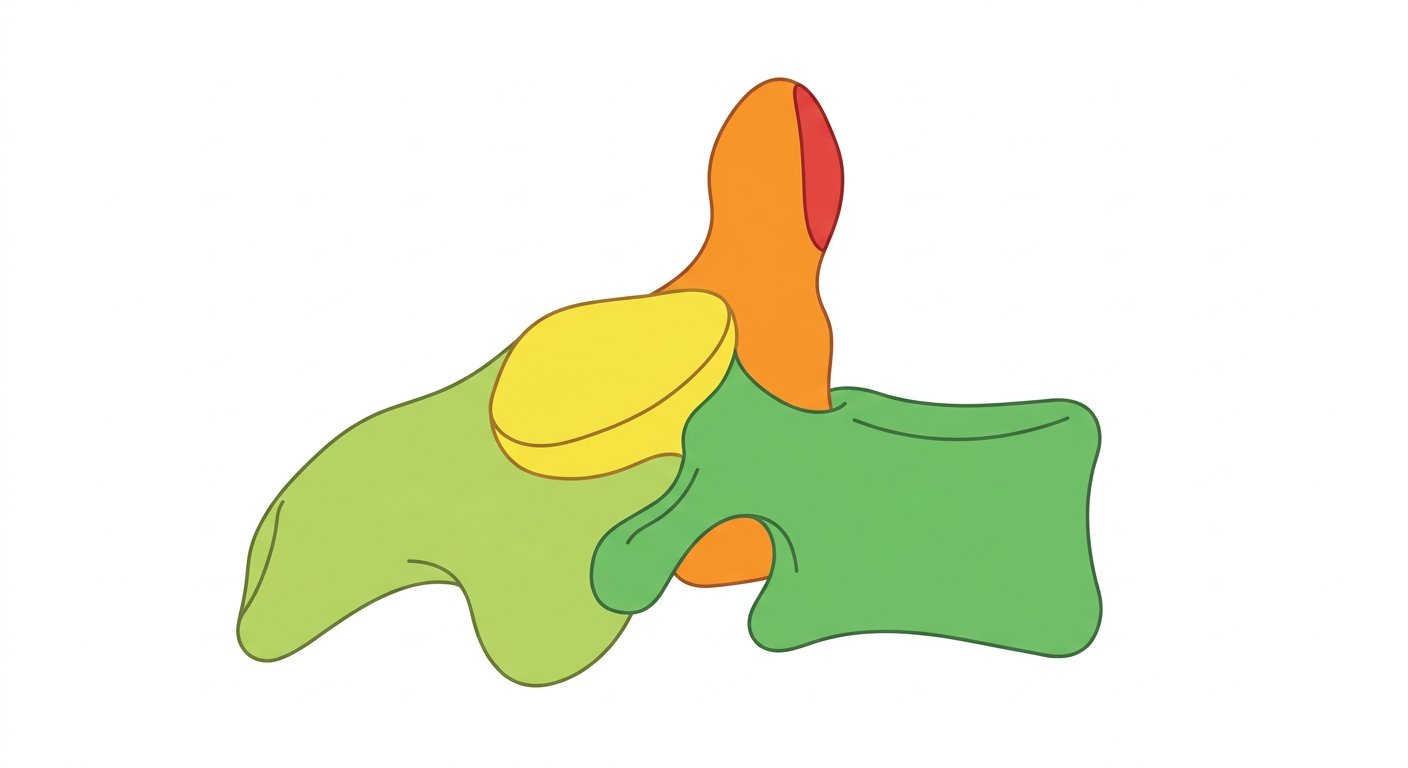
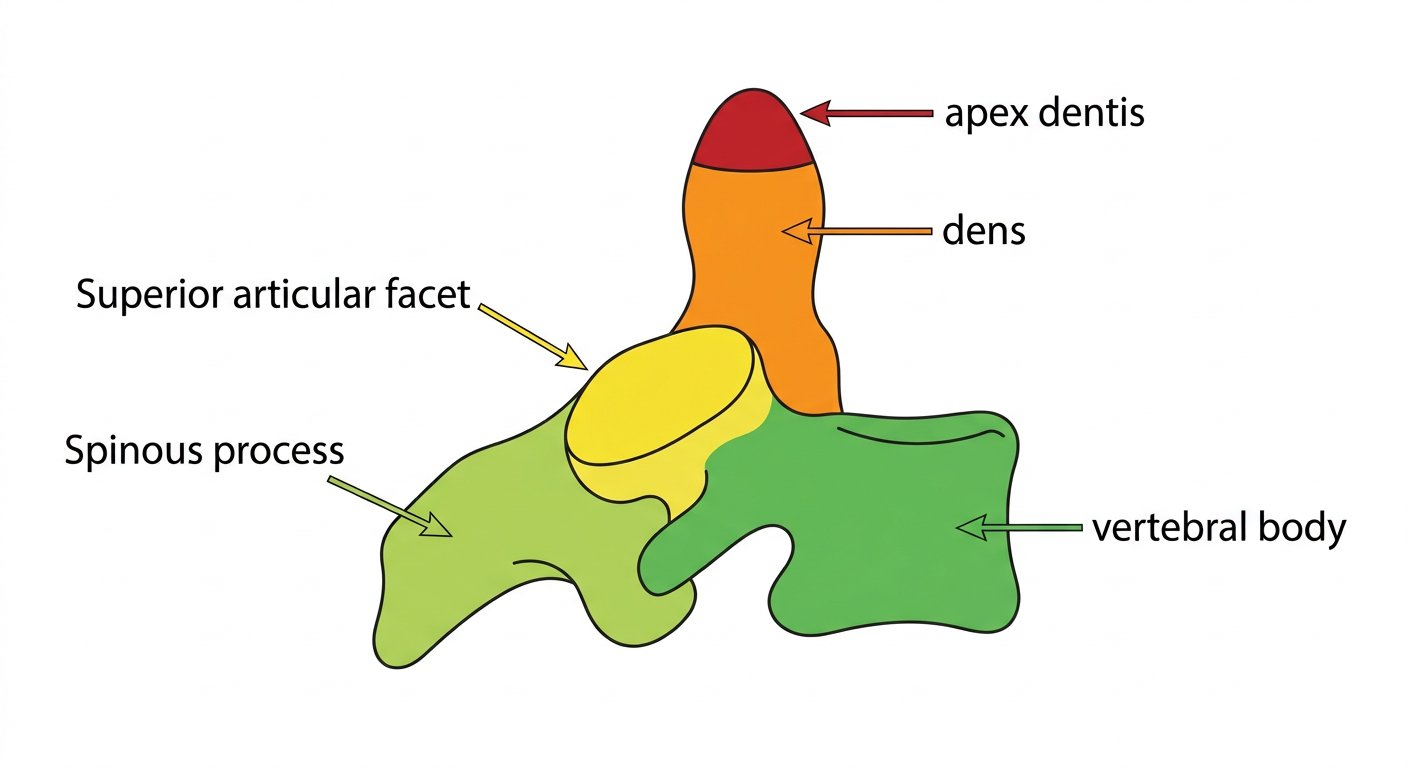
Strelkali savollar: faqat o'sha qism bo'yalgan + strelka, qolgani xira (Axis namuna) — COLOR_HIGHLIGHTS tizimi

Changed region(s): [[0.0312, 0.0938, 0.9688, 0.9062], [0.0625, 0.375, 0.3438, 0.4062]]

diff --git a/corpus/src/data/content.ts b/corpus/src/data/content.ts
@@ -16,7 +16,7 @@ import { PLEXUS_DETAIL, SKIN_DETAIL } from "./final";
 import { IMG_QUESTIONS, VISUAL_SLIDES, LESSON_IMAGES } from "./visuals";
 import { LESSON_LEGENDS } from "./labels";
 import { FIGURE_LESSONS } from "./figureLessons";
-import { COLOR_DIAGRAMS, COLOR_NAMES } from "./colorDiagrams";
+import { COLOR_DIAGRAMS, COLOR_HIGHLIGHTS } from "./colorDiagrams";
 
 export type { ContentSystem, Lesson, SystemUnit, Question };
 export type { QuestionType, Difficulty } from "./types";
@@ -99,21 +99,23 @@ export function partQuestions(lessonId: string): Question[] {
 }
 
 /**
- * Rangli diagramma savollari — yozuvsiz rangli rasmda qismni rang bo'yicha aniqlash.
- * Manba: Ahmedov kitobidagi qismlar; rang faqat vizual yordam (javob yozilmagan).
+ * Rangli diagramma savollari — faqat O'SHA qism bo'yalgan + strelka bilan ko'rsatilgan,
+ * qolgan qismlar xira. Javob variantlarida nomlar.
+ * Manba: Ahmedov kitobidagi qismlar; rang/strelka faqat vizual yordam.
  */
 export function colorQuestions(lessonId: string): Question[] {
-  const img = COLOR_DIAGRAMS[lessonId];
+  const baseImg = COLOR_DIAGRAMS[lessonId];
+  const highlights = COLOR_HIGHLIGHTS[lessonId];
   const legend = LESSON_LEGENDS[lessonId];
-  if (!img || !legend) return [];
+  if (!baseImg || !highlights || !legend) return [];
   const items = legend.filter((it) => /^\d+$/.test(it.n));
   if (items.length < 4) return [];
 
   const names = items.map((i) => i.name);
   const out: Question[] = [];
   items.forEach((item) => {
-    const num = Number(item.n);
-    const colorName = COLOR_NAMES[(num - 1) % COLOR_NAMES.length];
+    const img = highlights[item.n];
+    if (!img) return;
     const others = [...new Set(names.filter((n) => n !== item.name))];
     if (others.length < 3) return;
     const distractors = shuffleArr(others).slice(0, 3);
@@ -121,7 +123,7 @@ export function colorQuestions(lessonId: string): Question[] {
     const answer = options.indexOf(item.name);
     out.push({
       type: "img",
-      prompt: `Rasmda ${colorName} rangda ko'rsatilgan qism qanday ataladi?`,
+      prompt: `Rasmda strelka bilan ko'rsatilgan qism qanday ataladi?`,
       image: img,
       options,
       answer,

diff --git a/corpus/src/data/colorDiagrams.ts b/corpus/src/data/colorDiagrams.ts
@@ -50,6 +50,20 @@ export const COLOR_DIAGRAMS: Record<string, string> = {
   l14: "/img/color/l14.jpg", // To'sh suyagi (sternum)
 };
 
+/**
+ * Savol uchun alohida rasmlar: faqat O'SHA qism bo'yalgan + strelka bilan
+ * ko'rsatilgan, qolgan qismlar xira (kulrang). Kalit: dars → qism raqami → rasm.
+ */
+export const COLOR_HIGHLIGHTS: Record<string, Record<string, string>> = {
+  l6: {
+    "1": "/img/color/l6_1.jpg", // Apex dentis
+    "2": "/img/color/l6_2.jpg", // Dens
+    "3": "/img/color/l6_3.jpg", // Facies articularis superior
+    "4": "/img/color/l6_4.jpg", // Processus spinosus
+    "5": "/img/color/l6_5.jpg", // Corpus vertebrae
+  },
+};
+
 /** Legend raqami → rang (palitradan indeks bo'yicha). */
 export function colorForIndex(index: number): string {
   return COLOR_PALETTE[index % COLOR_PALETTE.length];
